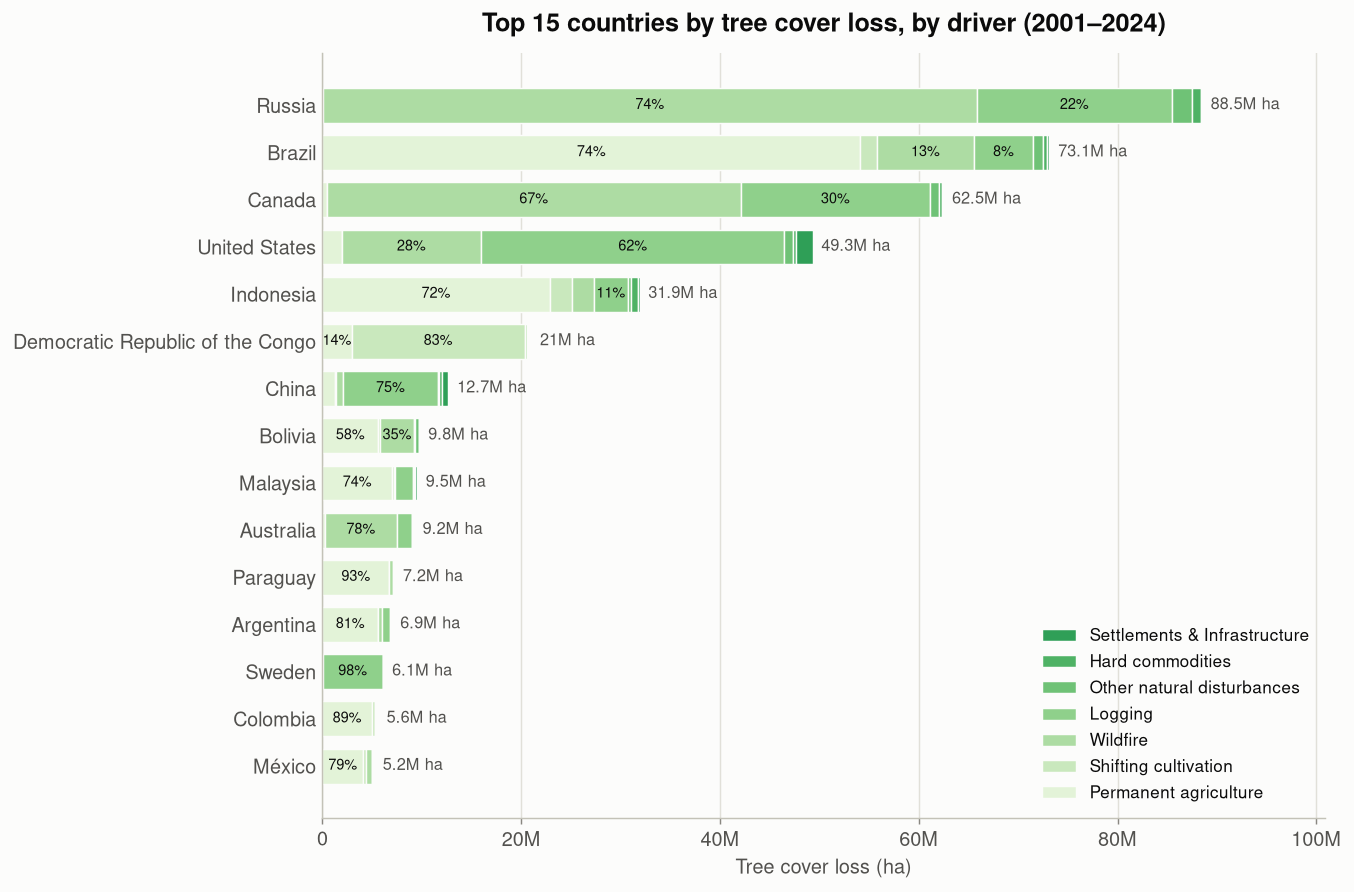
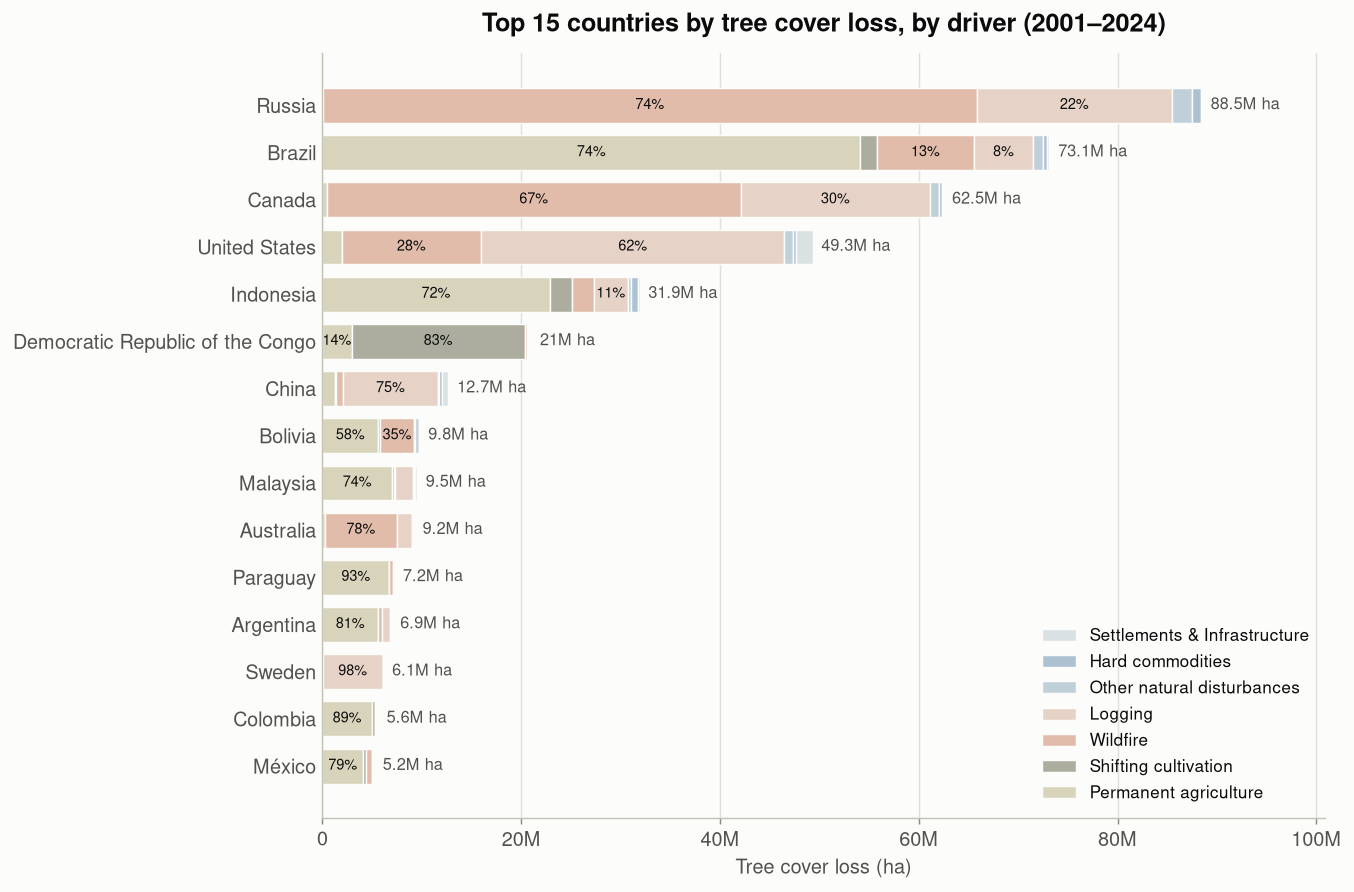
Adopt the supplied warm muted palette for all graphs
Replace the driver theme + secondary colors and the single-hue accent with
the user-supplied categorical palette (khaki, dark olive, terracotta, clay,
dusty blue, steel blue, blue-grey), assigned by DRIVER_ORDER. Secondary map
zones use lightened tints of the same palette; accent is the steel blue.
Every chart (map, box plot, 3-D over-time, bars, trend) now shares it.

Changed region(s): [[0.2171, 0.0908, 0.8996, 0.8778], [0.7755, 0.6962, 0.8065, 0.9081]]

diff --git a/src/forest_viz/palette.py b/src/forest_viz/palette.py
@@ -23,15 +23,36 @@ DRIVER_ORDER = [
     "Settlements & Infrastructure",
 ]
 
-# Secondary (non-primary) drivers use a fixed pastel-green shade, consistent
-# across every country. Order matches DRIVER_ORDER.
-_SLOTS_LIGHT = ["#e3f3d8", "#c9e8bd", "#addca3", "#8fd08b", "#6fc276", "#4fb265", "#2f9f57"]
-_SLOTS_DARK = ["#b7d9a6", "#9ccb8a", "#7fbd75", "#61ad63", "#469a55", "#2f8547", "#1f6f39"]
+def _hex(c):
+    c = c.lstrip("#")
+    return tuple(int(c[i:i + 2], 16) for i in (0, 2, 4))
 
-# Themed "biome" color used ONLY for a country's primary driver (behind its
-# icons), echoing the reference infographic's land-use palette.
-_THEME_LIGHT = ["#e4b23e", "#b3c94f", "#d9663a", "#3f8f6e", "#6f93a6", "#8a8f99", "#b5563f"]
-_THEME_DARK = ["#c9992f", "#97ad3f", "#bf5330", "#2f7d5e", "#5a7d8f", "#74797f", "#9c4634"]
+
+def _to_hex(rgb):
+    return "#{:02x}{:02x}{:02x}".format(*(max(0, min(255, int(v))) for v in rgb))
+
+
+def _lighten(c, t):
+    r, g, b = _hex(c)
+    return _to_hex((r + (255 - r) * t, g + (255 - g) * t, b + (255 - b) * t))
+
+
+def _darken(c, f):
+    r, g, b = _hex(c)
+    return _to_hex((r * f, g * f, b * f))
+
+
+# User-supplied categorical palette (warm, muted). Assigned to drivers in
+# DRIVER_ORDER; this is the identity color used across every graph.
+_PALETTE = ["#a9a06c", "#474a29", "#bd6b45", "#c99c81", "#7397ac", "#47799a", "#aebdc2"]
+_NEUTRAL = "#c7c2b3"  # the spare greige swatch
+
+# Full-strength "theme" colors (primary driver / most charts).
+_THEME_LIGHT = list(_PALETTE)
+_THEME_DARK = list(_PALETTE)
+# Muted (secondary) tints of the same palette, for the map's non-primary zones.
+_SLOTS_LIGHT = [_lighten(c, 0.55) for c in _PALETTE]
+_SLOTS_DARK = [_darken(c, 0.7) for c in _PALETTE]
 
 DRIVER_COLORS = dict(zip(DRIVER_ORDER, _SLOTS_LIGHT))
 DRIVER_COLORS_DARK = dict(zip(DRIVER_ORDER, _SLOTS_DARK))
@@ -39,9 +60,9 @@ DRIVER_COLORS_DARK = dict(zip(DRIVER_ORDER, _SLOTS_DARK))
 DRIVER_THEME = dict(zip(DRIVER_ORDER, _THEME_LIGHT))
 DRIVER_THEME_DARK = dict(zip(DRIVER_ORDER, _THEME_DARK))
 
-# Single-hue accent for one-series charts (blue slot 1).
-ACCENT = "#2a78d6"
-ACCENT_DARK = "#3987e5"
+# Single-hue accent for one-series charts (steel blue from the palette).
+ACCENT = "#47799a"
+ACCENT_DARK = _lighten("#47799a", 0.2)
 
 # Chart chrome / ink.
 LIGHT = {
